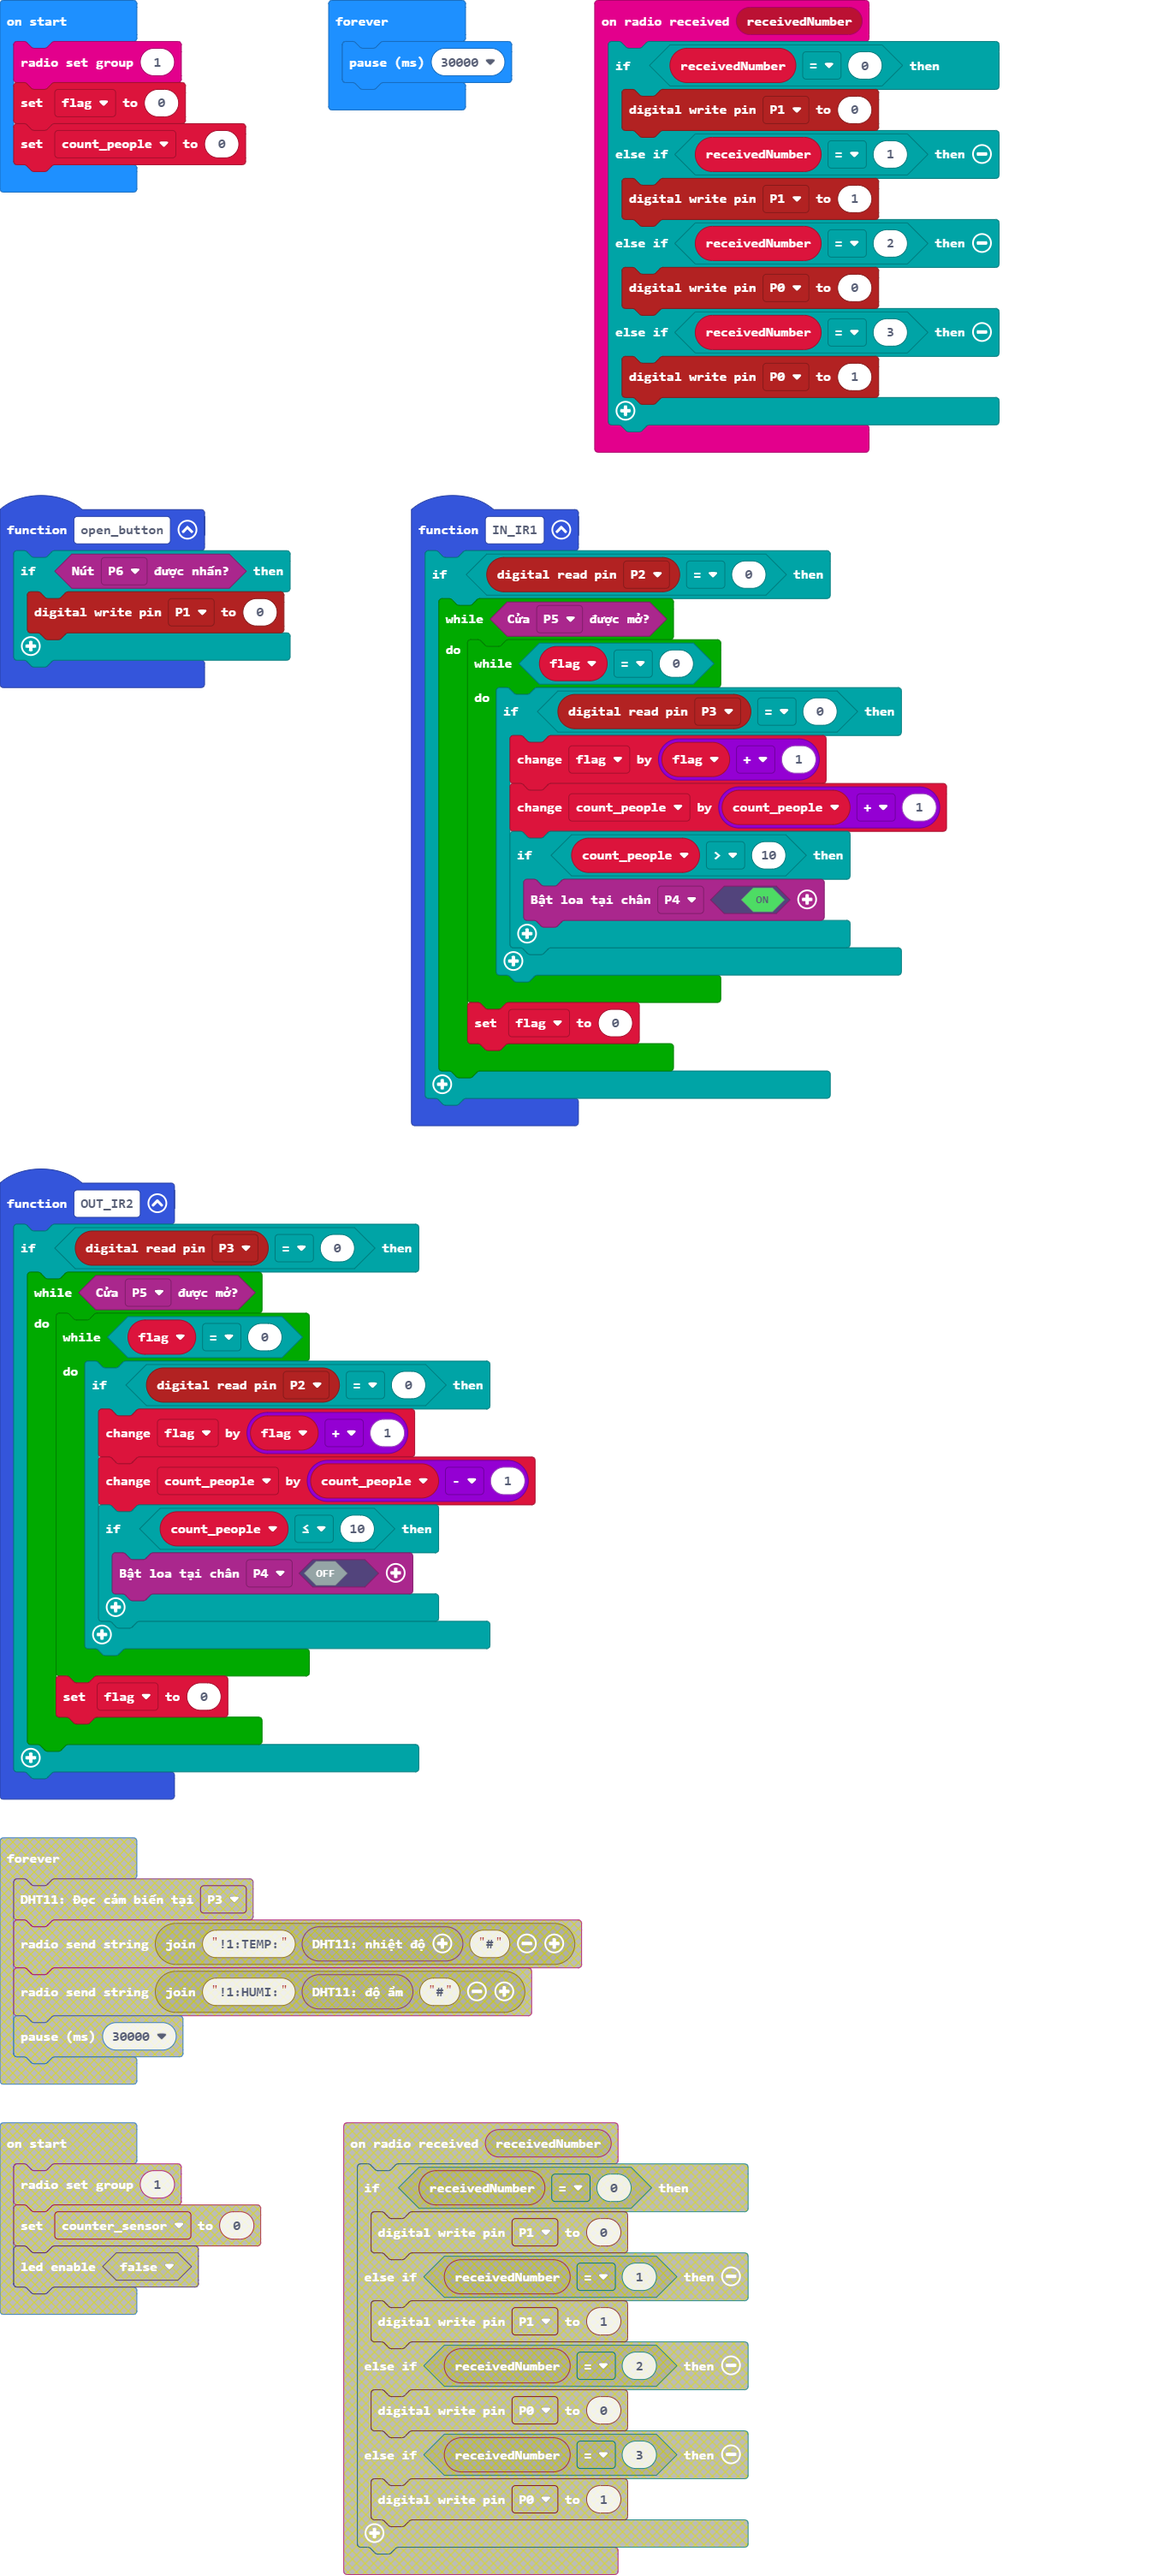
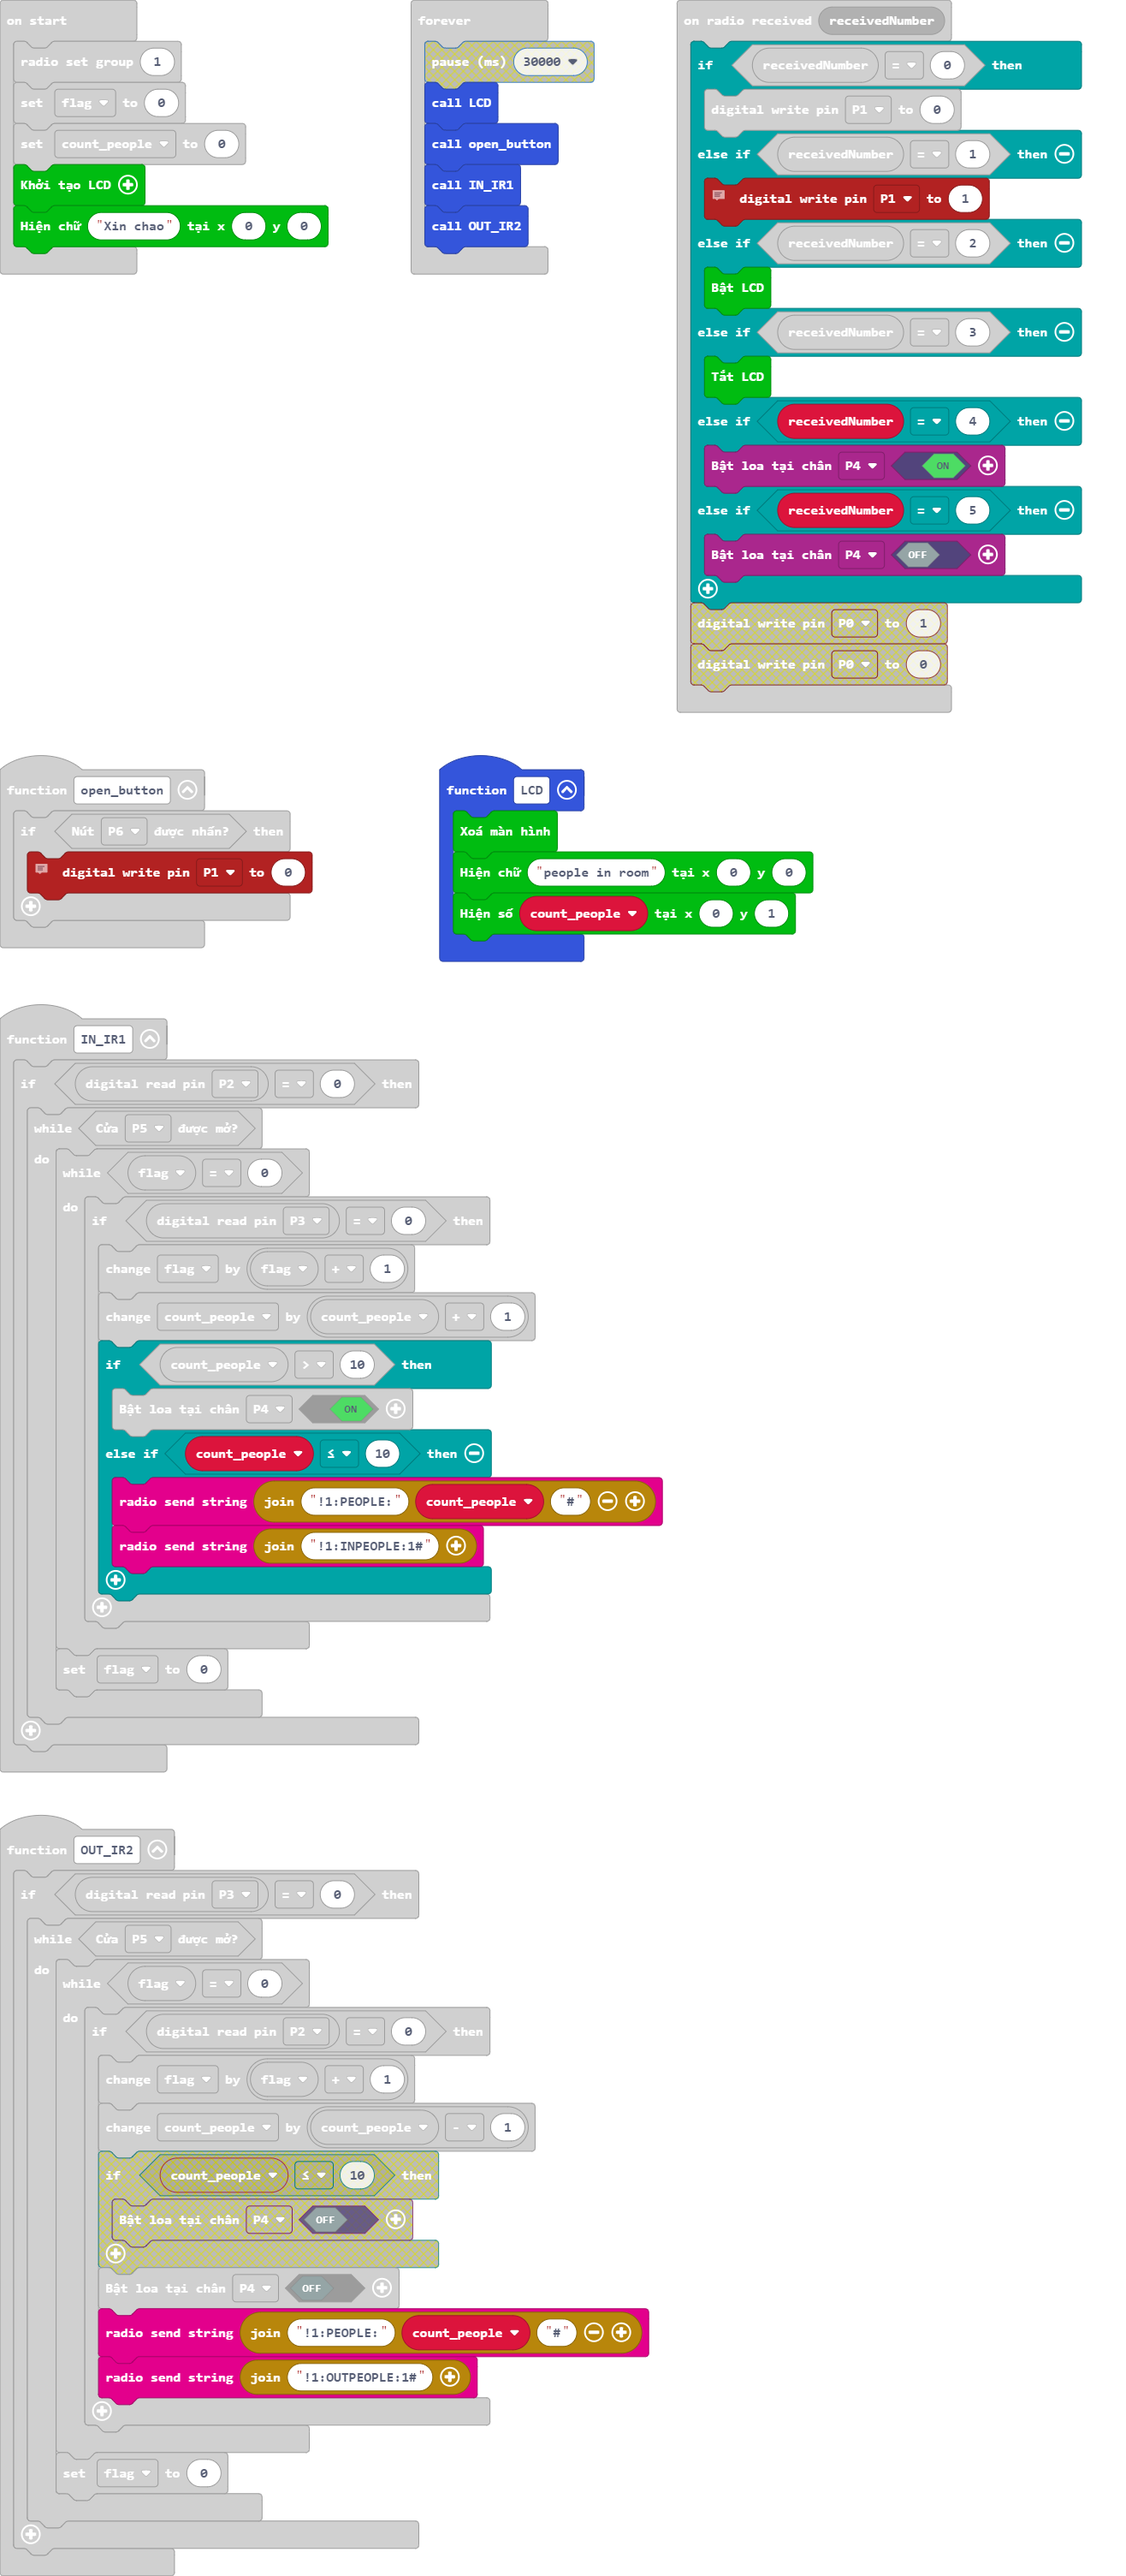
Update main.blocks, main.ts

diff --git a/main.ts b/main.ts
@@ -1,5 +1,6 @@
 function open_button () {
     if (NPNBitKit.Button(DigitalPin.P6)) {
+        // dong co RC 
         pins.digitalWritePin(DigitalPin.P1, 0)
     }
 }
@@ -7,13 +8,23 @@ radio.onReceivedNumber(function (receivedNumber) {
     if (receivedNumber == 0) {
         pins.digitalWritePin(DigitalPin.P1, 0)
     } else if (receivedNumber == 1) {
+        // dong co RC
         pins.digitalWritePin(DigitalPin.P1, 1)
     } else if (receivedNumber == 2) {
-        pins.digitalWritePin(DigitalPin.P0, 0)
+        NPNLCD.on()
     } else if (receivedNumber == 3) {
-        pins.digitalWritePin(DigitalPin.P0, 1)
+        NPNLCD.off()
+    } else if (receivedNumber == 4) {
+        NPNBitKit.Buzzer(DigitalPin.P4, true)
+    } else if (receivedNumber == 5) {
+        NPNBitKit.Buzzer(DigitalPin.P4, false)
     }
 })
+function LCD () {
+    NPNLCD.clear()
+    NPNLCD.ShowString("people in room", 0, 0)
+    NPNLCD.ShowNumber(count_people, 0, 1)
+}
 function IN_IR1 () {
     if (pins.digitalReadPin(DigitalPin.P2) == 0) {
         while (NPNBitKit.ButtonDoorOpen(DigitalPin.P5)) {
@@ -23,6 +34,9 @@ function IN_IR1 () {
                     count_people += count_people + 1
                     if (count_people > 10) {
                         NPNBitKit.Buzzer(DigitalPin.P4, true)
+                    } else if (count_people <= 10) {
+                        radio.sendString("!1:PEOPLE:" + count_people + "#")
+                        radio.sendString("!1:INPEOPLE:1#")
                     }
                 }
             }
@@ -37,9 +51,9 @@ function OUT_IR2 () {
                 if (pins.digitalReadPin(DigitalPin.P2) == 0) {
                     flag += flag + 1
                     count_people += count_people - 1
-                    if (count_people <= 10) {
-                        NPNBitKit.Buzzer(DigitalPin.P4, false)
-                    }
+                    NPNBitKit.Buzzer(DigitalPin.P4, false)
+                    radio.sendString("!1:PEOPLE:" + count_people + "#")
+                    radio.sendString("!1:OUTPEOPLE:1#")
                 }
             }
             flag = 0
@@ -51,6 +65,11 @@ let flag = 0
 radio.setGroup(1)
 flag = 0
 count_people = 0
+NPNLCD.LcdInit()
+NPNLCD.ShowString("Xin chao", 0, 0)
 basic.forever(function () {
-    basic.pause(30000)
+    LCD()
+    open_button()
+    IN_IR1()
+    OUT_IR2()
 })
